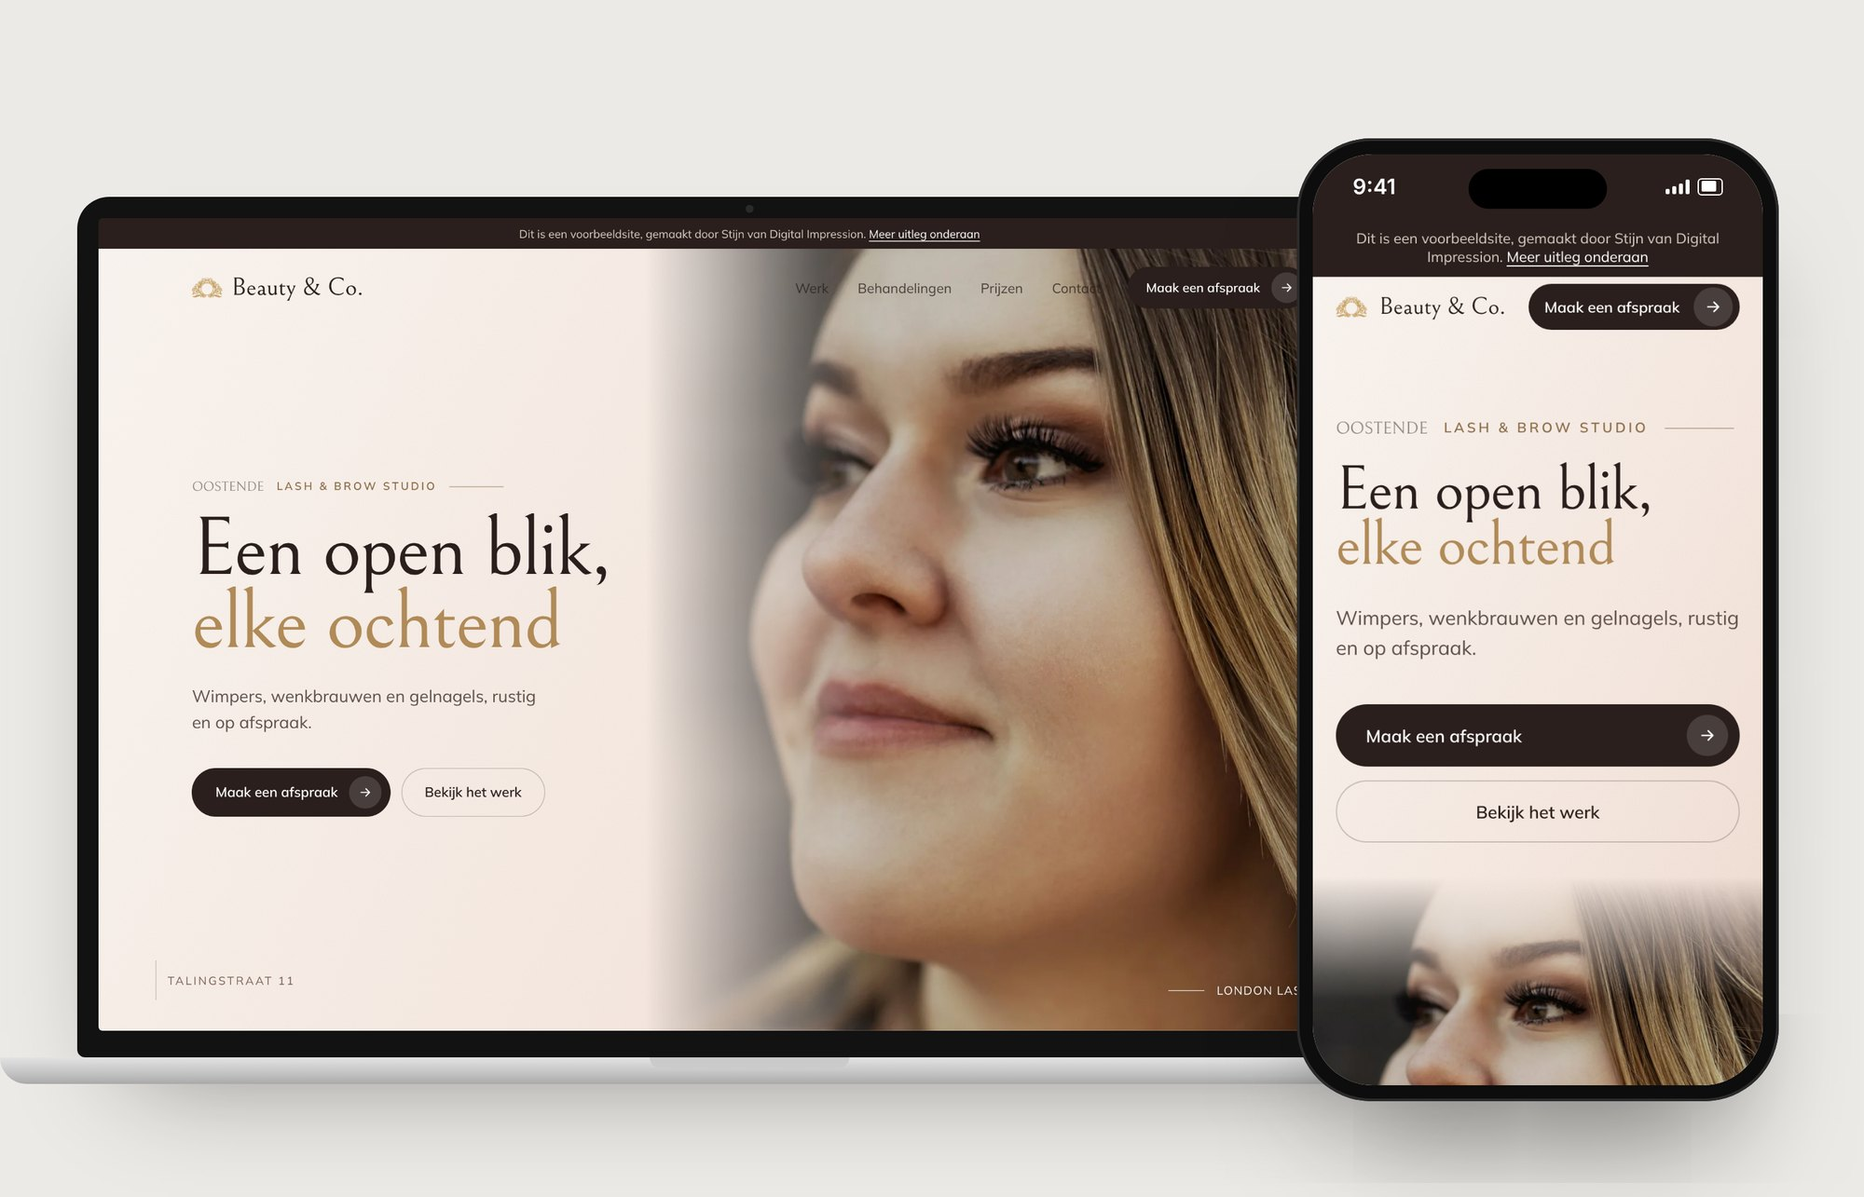
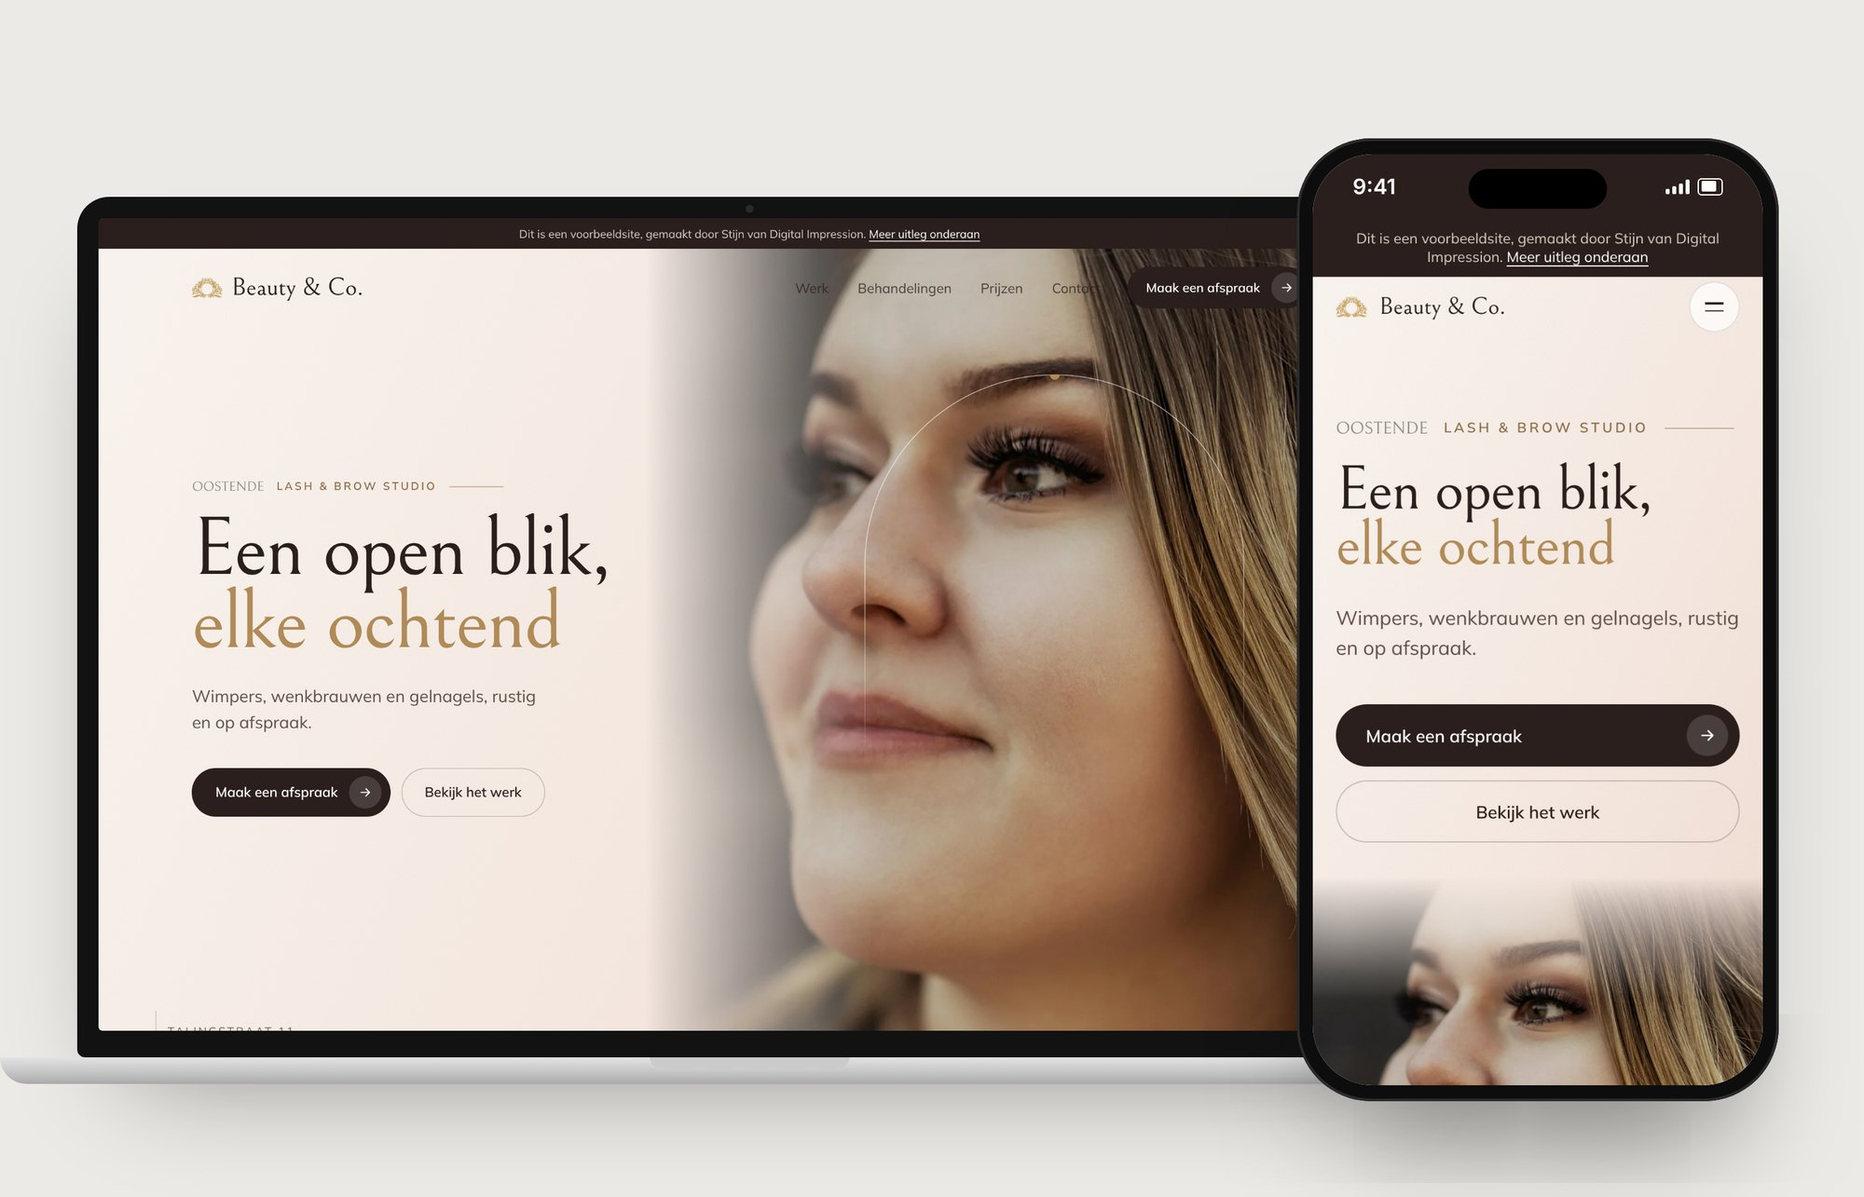
Herbouw demo's: beautyenco-v4
Claude-Session: https://claude.ai/code/session_01TdZ34TXFArNX3EdJKFWCx7

diff --git a/voorbeeld/beautyenco-v4/index.html b/voorbeeld/beautyenco-v4/index.html
@@ -187,7 +187,7 @@ html,body{overflow-x:clip}
 .prices .cols{display:grid;grid-template-columns:repeat(3,1fr);gap:0;border-top:1px solid var(--line)}
 .pl{padding:30px 30px 10px 0}
 .pl+.pl{padding-left:30px;border-left:1px solid var(--line)}
-.pl h3{font-size:32px;margin-bottom:12px;display:flex;align-items:baseline;justify-content:space-between}
+.pl h3{font-size:32px;margin-bottom:12px;display:flex;align-items:center;gap:14px}.pl h3 small{margin-left:auto}
 .pl h3 small{font:600 12px/1 var(--fb);letter-spacing:.16em;color:var(--acc)}
 .pl div{display:flex;justify-content:space-between;align-items:baseline;gap:10px;padding:11px 0;font-size:15px}
 .pl div span{flex:1;display:flex;align-items:baseline;gap:10px}
@@ -240,6 +240,73 @@ html,body{overflow-x:clip}
  .svc{gap:10px}.sv h3{font-size:24px}.sv .tx{left:14px;right:14px;bottom:14px}.sv .pr{font-size:12px;padding:6px 10px}
  .sl-img{height:440px}
 }
+
+/* v4b: levendiger, aansluitend */
+:root{--rose:#EBD3C8;--rose2:#F4E4DC}
+.flow{position:relative;z-index:2;border-radius:clamp(28px,4vw,56px) clamp(28px,4vw,56px) 0 0;margin-top:calc(clamp(28px,4vw,56px) * -1)}
+.hero{padding-bottom:clamp(28px,4vw,56px)}
+.h-arch{position:absolute;right:12%;top:15%;width:min(30vw,420px);aspect-ratio:3/4.2;border:1px solid rgba(255,255,255,.6);border-bottom:0;border-radius:999px 999px 0 0;pointer-events:none;z-index:1;-webkit-mask-image:linear-gradient(180deg,#000 35%,transparent 75%);mask-image:linear-gradient(180deg,#000 35%,transparent 75%)}
+.h-arch::after{content:"";position:absolute;left:50%;top:-6px;width:11px;height:11px;margin-left:-5.5px;border-radius:50%;background:var(--acc);box-shadow:0 0 0 5px rgba(176,138,87,.18)}
+.h-txt h1 .acc{position:relative}
+.werk{background:var(--bg)}
+.strip-bar{margin:22px var(--pad) 0;max-width:1280px;height:2px;background:var(--line);border-radius:2px;overflow:hidden}
+@media (min-width:1400px){.strip-bar{margin-inline:auto;width:calc(1280px - var(--pad)*2)}}
+.strip-bar i{display:block;height:100%;width:30%;background:var(--acc);border-radius:2px;transform-origin:left;transition:transform .2s linear}
+.tr-bg{background:var(--rose2)}
+.sv{overflow:visible}
+.sv .ar{position:absolute;inset:0;border-radius:inherit;overflow:hidden;z-index:0}
+.sv .ar img{position:absolute;inset:0;width:100%;height:100%;object-fit:cover;transition:transform 1.4s var(--ease)}
+.sv .ar::after{content:"";position:absolute;inset:0;background:linear-gradient(180deg,rgba(42,31,28,0) 45%,rgba(42,31,28,.82))}
+.sv::before{content:"";position:absolute;inset:-9px;border:1px solid rgba(176,138,87,.45);border-radius:inherit;opacity:0;transform:scale(.97);transition:opacity .5s,transform .7s var(--ease)}
+.sv:hover::before{opacity:1;transform:none}
+.sv::after{display:none}
+.sv .tx{z-index:1}
+.sv:hover .ar img{transform:scale(1.06)}
+.sv .pr i{width:22px;height:22px;border-radius:50%;background:#fff;color:var(--ink);display:inline-grid;place-items:center;transition:transform .5s var(--ease)}
+.sv:hover .pr i{transform:rotate(-45deg)}
+.sv .pr i svg{width:12px;height:12px}
+.steps3{display:grid;grid-template-columns:repeat(3,1fr);gap:16px;margin-top:clamp(40px,5vw,64px)}
+.s3{display:flex;gap:16px;align-items:center;padding:14px;border-radius:22px;background:rgba(255,255,255,.08);backdrop-filter:blur(10px);-webkit-backdrop-filter:blur(10px);box-shadow:inset 0 0 0 1px rgba(255,255,255,.14)}
+.s3 img{width:84px;height:84px;border-radius:16px;object-fit:cover;flex:none}
+.s3 .n{font:400 13px/1 var(--fb);letter-spacing:.18em;color:#E3C49A}
+.s3 b{display:block;font:400 23px/1.15 var(--fh);color:#fff;margin:6px 0 4px}
+.s3 small{color:rgba(255,255,255,.7);font-size:13.5px;line-height:1.4;display:block}
+.prices{background:var(--bg)}
+.pl h3 .ico{width:42px;height:42px;border-radius:50%;background:var(--rose2);display:grid;place-items:center;color:var(--acc2)}
+.pl h3 .ico svg{width:20px;height:20px}
+.salon{background:var(--rose2)}
+.sl-img .a{box-shadow:0 40px 80px -50px rgba(42,31,28,.6)}
+.sl-img::before{content:"";position:absolute;left:-18px;top:30px;width:120px;height:120px;border-radius:50%;background:var(--rose);z-index:0}
+.sl-img .a{z-index:1}.sl-img .b{z-index:2;border-color:var(--rose2)}
+.book{background:var(--bg)}
+.bk{box-shadow:0 50px 100px -60px rgba(42,31,28,.55)}
+.burger{display:none;width:44px;height:44px;border-radius:50%;border:1px solid var(--line);background:rgba(255,255,255,.7);align-items:center;justify-content:center;flex-direction:column;gap:5px;cursor:pointer}
+.burger i{display:block;width:16px;height:1.5px;background:var(--ink);transition:transform .4s var(--ease),opacity .3s}
+.menu-open .burger i:first-child{transform:translateY(3.25px) rotate(45deg)}
+.menu-open .burger i:last-child{transform:translateY(-3.25px) rotate(-45deg)}
+.sheet{position:fixed;inset:0;z-index:45;background:var(--bg);padding:150px var(--pad) 40px;display:flex;flex-direction:column;gap:6px;opacity:0;visibility:hidden;transform:translateY(-12px);transition:opacity .4s,transform .5s var(--ease),visibility .4s}
+.menu-open .sheet{opacity:1;visibility:visible;transform:none}
+.sheet a.l{font:400 42px/1.25 var(--fh);color:var(--ink);padding:6px 0;border-bottom:1px solid var(--line)}
+.sheet .btn{margin-top:26px;align-self:flex-start}
+.sheet p{margin-top:auto;color:var(--mute);font-size:14px}
+.ftr{background:var(--dark);color:#F1E6DF;border-top:0;padding-top:clamp(60px,7vw,100px)}
+.ftr .ft{display:grid;grid-template-columns:1.3fr 1fr 1fr 1fr;gap:30px;align-items:start;padding-bottom:36px;border-bottom:1px solid rgba(255,255,255,.12)}
+.ftr .ft .brand{color:#fff;font-size:34px}
+.ftr .ft .brand img{height:26px}
+.ftr .ft p.t{color:rgba(241,230,223,.6);font-size:14.5px;margin-top:16px;max-width:22em}
+.ftr h4{font:600 12px/1 var(--fb);letter-spacing:.16em;text-transform:uppercase;color:#D8B98A;margin-bottom:14px}
+.ftr .col a,.ftr .col span{display:block;color:#F1E6DF;font-size:15px;margin-bottom:8px;opacity:.85}
+.ftr .col a:hover{opacity:1}
+.ftr .strip2{display:grid;grid-template-columns:repeat(6,1fr);gap:8px;margin:30px 0}
+.ftr .strip2 img{width:100%;aspect-ratio:1;object-fit:cover;border-radius:14px}
+.ftr .fb{color:rgba(241,230,223,.5);border-top:0;padding-top:0}
+@media (max-width:1100px){.steps3{grid-template-columns:1fr}}
+@media (max-width:1100px){.nav ul{display:none}.burger{display:inline-flex;margin-left:auto}.nav .in>.btn{margin-left:auto}.nav .in>.btn+.burger{margin-left:0}.h-arch{display:none}}
+@media (max-width:640px){.nav .in>.btn{display:none}.burger{margin-left:auto!important}}
+@media (max-width:900px){.ftr .ft{grid-template-columns:1fr 1fr}}
+@media (max-width:640px){.ftr .ft{grid-template-columns:1fr}.ftr .strip2{grid-template-columns:repeat(3,1fr)}.sv::before{inset:-6px}.s3 img{width:70px;height:70px}}
+@media (min-width:1101px){.sheet{display:none}}
+@media (max-width:900px){.hero>.wrap{width:100%}.svc .sv{aspect-ratio:3/3.7}}
 </style>
 </head>
 <body>
@@ -255,13 +322,16 @@ html,body{overflow-x:clip}
    <li><a href="#afspraak">Contact</a></li>
   </ul>
   <a class="btn k" href="#afspraak">Maak een afspraak <i><svg viewBox="0 0 24 24" fill="none" stroke="currentColor" stroke-width="2" stroke-linecap="round"><path d="M5 12h14M13 6l6 6-6 6"/></svg></i></a>
+  <button class="burger" type="button" aria-label="Menu" aria-expanded="false"><i></i><i></i></button>
  </div>
 </header>
+<div class="sheet" aria-hidden="true"><a class="l" href="#werk">Werk</a><a class="l" href="#behandelingen">Behandelingen</a><a class="l" href="#prijzen">Prijzen</a><a class="l" href="#afspraak">Contact</a><a class="btn k" href="#afspraak">Maak een afspraak <i><svg viewBox="0 0 24 24" fill="none" stroke="currentColor" stroke-width="2" stroke-linecap="round"><path d="M5 12h14M13 6l6 6-6 6"/></svg></i></a><p>Talingstraat 11, Oostende · 0494 43 06 27</p></div>
 
 <main id="top">
 <section class="hero">
  <div class="ph"><img src="img/model.webp" alt="Vrouw met lange, natuurlijke wimpers" width="1300" height="1949" fetchpriority="high" data-speed=".05"></div>
  <div class="grain"></div>
+ <div class="h-arch" data-speed=".03"></div>
  <div class="wrap grid">
   <div class="h-txt">
    <p class="idx r"><span>Oostende</span>Lash &amp; brow studio</p>
@@ -290,46 +360,47 @@ html,body{overflow-x:clip}
   <figure class="rm" style="--d:5;--rad:22px"><img src="img/lashlift.webp" alt="Lashlift" loading="lazy"><figcaption><b>Lashlift</b><span>Wimpers</span></figcaption></figure>
   <figure class="rm" style="--d:6;--rad:22px"><img src="img/rood.webp" alt="Rode gelnagels" loading="lazy"><figcaption><b>Kleur</b><span>Gelnagels</span></figcaption></figure>
  </div>
+ <div class="strip-bar"><i></i></div>
 </section>
 
-<section class="sec" id="behandelingen" style="padding-top:clamp(50px,6vw,90px)">
+<section class="sec flow tr-bg" id="behandelingen">
  <div class="wrap">
   <div class="sh"><div><p class="idx r"><span>02</span>Behandelingen</p><h2 class="rl">Vier dingen, heel goed gedaan</h2></div></div>
   <div class="svc">
-   <a class="sv r" href="#prijzen"><img src="img/volume.webp" alt="" loading="lazy"><div class="tx"><span class="n">01</span><h3>Wimpers</h3><span class="pr">vanaf € 65 <svg viewBox="0 0 24 24" fill="none" stroke="currentColor" stroke-width="2" stroke-linecap="round"><path d="M5 12h14M13 6l6 6-6 6"/></svg></span></div></a>
-   <a class="sv r" href="#prijzen" style="--d:2"><img src="img/pb-duo.webp" alt="" loading="lazy"><div class="tx"><span class="n">02</span><h3>Wenkbrauwen</h3><span class="pr">vanaf € 18 <svg viewBox="0 0 24 24" fill="none" stroke="currentColor" stroke-width="2" stroke-linecap="round"><path d="M5 12h14M13 6l6 6-6 6"/></svg></span></div></a>
-   <a class="sv r" href="#prijzen" style="--d:3"><img src="img/pb-na.webp" alt="" loading="lazy"><div class="tx"><span class="n">03</span><h3>Powderbrows</h3><span class="pr">€ 355 <svg viewBox="0 0 24 24" fill="none" stroke="currentColor" stroke-width="2" stroke-linecap="round"><path d="M5 12h14M13 6l6 6-6 6"/></svg></span></div></a>
-   <a class="sv r" href="#prijzen" style="--d:4"><img src="img/nagels.webp" alt="" loading="lazy"><div class="tx"><span class="n">04</span><h3>Gelnagels</h3><span class="pr">vanaf € 55 <svg viewBox="0 0 24 24" fill="none" stroke="currentColor" stroke-width="2" stroke-linecap="round"><path d="M5 12h14M13 6l6 6-6 6"/></svg></span></div></a>
+   <a class="sv r" href="#prijzen"><span class="ar"><img src="img/volume.webp" alt="" loading="lazy"></span><div class="tx"><span class="n">01</span><h3>Wimpers</h3><span class="pr">vanaf € 65 <i><svg viewBox="0 0 24 24" fill="none" stroke="currentColor" stroke-width="2" stroke-linecap="round"><path d="M5 12h14M13 6l6 6-6 6"/></svg></i></span></div></a>
+   <a class="sv r" href="#prijzen" style="--d:2"><span class="ar"><img src="img/pb-duo.webp" alt="" loading="lazy"></span><div class="tx"><span class="n">02</span><h3>Wenkbrauwen</h3><span class="pr">vanaf € 18 <i><svg viewBox="0 0 24 24" fill="none" stroke="currentColor" stroke-width="2" stroke-linecap="round"><path d="M5 12h14M13 6l6 6-6 6"/></svg></i></span></div></a>
+   <a class="sv r" href="#prijzen" style="--d:3"><span class="ar"><img src="img/pb-na.webp" alt="" loading="lazy"></span><div class="tx"><span class="n">03</span><h3>Powderbrows</h3><span class="pr">€ 355 <i><svg viewBox="0 0 24 24" fill="none" stroke="currentColor" stroke-width="2" stroke-linecap="round"><path d="M5 12h14M13 6l6 6-6 6"/></svg></i></span></div></a>
+   <a class="sv r" href="#prijzen" style="--d:4"><span class="ar"><img src="img/nagels.webp" alt="" loading="lazy"></span><div class="tx"><span class="n">04</span><h3>Gelnagels</h3><span class="pr">vanaf € 55 <i><svg viewBox="0 0 24 24" fill="none" stroke="currentColor" stroke-width="2" stroke-linecap="round"><path d="M5 12h14M13 6l6 6-6 6"/></svg></i></span></div></a>
   </div>
  </div>
 </section>
 
-<section class="mood">
+<section class="mood flow">
  <img src="img/rust.webp" alt="Vrouw met de ogen dicht in warm licht" loading="lazy" data-speed=".08">
  <div class="wrap">
-  <p class="idx r"><span>03</span>Veilig voor je eigen wimper</p>
+  <p class="idx r"><span>03</span>Je eerste afspraak</p>
   <h2 class="rl">Ogen dicht, even niets</h2>
-  <p class="l r" style="--d:2">Bij de allergietest kijken we hoeveel gewicht je eigen wimper aankan. Een set die schade doet, plaatsen we niet.</p>
-  <div class="facts">
-   <div class="r"><b>London Lash Pro</b><small>Opgeleid bij Daisy Wolf</small></div>
-   <div class="r" style="--d:2"><b>Allergietest € 35</b><small>Met advies over stijl en gewicht</small></div>
-   <div class="r" style="--d:3"><b>48 uur vooraf</b><small>Altijd een test voor henna</small></div>
+  <p class="l r" style="--d:2">Opgeleid bij Daisy Wolf van London Lash Pro. Bij de test kijken we hoeveel gewicht je eigen wimper aankan. Een set die schade doet, plaatsen we niet.</p>
+  <div class="steps3">
+   <div class="s3 r"><img src="img/oog.webp" alt="" loading="lazy"><div><span class="n">01</span><b>Allergietest</b><small>€ 35, met advies over stijl en gewicht</small></div></div>
+   <div class="s3 r" style="--d:2"><img src="img/volume.webp" alt="" loading="lazy"><div><span class="n">02</span><b>De behandeling</b><small>Rustig liggen, even indommelen mag</small></div></div>
+   <div class="s3 r" style="--d:3"><img src="img/wimpers-zw.webp" alt="" loading="lazy"><div><span class="n">03</span><b>Nazorg</b><small>Reinigingsproducten bij je nieuwe set inbegrepen</small></div></div>
   </div>
  </div>
 </section>
 
-<section class="sec prices" id="prijzen">
+<section class="sec prices flow" id="prijzen">
  <div class="wrap">
   <div class="sh"><div><p class="idx r"><span>04</span>Prijslijst</p><h2 class="rl">Helder vooraf</h2></div><p class="aside r">Bij nieuwe wimpersets zitten de reinigingsproducten (€ 10) inbegrepen.</p></div>
   <div class="cols">
-   <div class="pl r"><h3>Wimpers <small>01</small></h3><div><span>Lashlift met kleuring</span><b>€ 65</b></div><div><span>Nieuwe set one by one</span><b>€ 125</b></div><div><span>Nieuwe set hybride</span><b>€ 135</b></div><div><span>Russian volume glamour</span><b>€ 135</b></div><div><span>Russian mega volume</span><b>€ 145</b></div><div><span>Speedy refill, 45 min</span><b>€ 45</b></div></div>
-   <div class="pl r" style="--d:2"><h3>Wenkbrauwen <small>02</small></h3><div><span>Epilatie</span><b>€ 18</b></div><div><span>Verven</span><b>€ 18</b></div><div><span>Epilatie en verven</span><b>€ 33</b></div><div><span>Henna brows</span><b>€ 60</b></div><div><span>Powderbrows, met retouche</span><b>€ 355</b></div><div><span>Adviesgesprek PMU</span><b>€ 40</b></div></div>
-   <div class="pl r" style="--d:3"><h3>Gelnagels <small>03</small></h3><div><span>Nieuwe set</span><b>€ 55</b></div><div><span>Met verlenging</span><b>€ 75</b></div><div><span>Bijwerking</span><b>€ 55</b></div><div><span>Bijwerking ander salon</span><b>€ 60</b></div><div><span>Nailart, per nagel</span><b>€ 1,5</b></div></div>
+   <div class="pl r"><h3><span class="ico"><svg viewBox="0 0 24 24" fill="none" stroke="currentColor" stroke-width="1.6" stroke-linecap="round" stroke-linejoin="round"><path d="M3 13c3-4 15-4 18 0M6 12l-1.5-3M10 11l-.5-3.5M14 11l.5-3.5M18 12l1.5-3"/></svg></span>Wimpers <small>01</small></h3><div><span>Lashlift met kleuring</span><b>€ 65</b></div><div><span>Nieuwe set one by one</span><b>€ 125</b></div><div><span>Nieuwe set hybride</span><b>€ 135</b></div><div><span>Russian volume glamour</span><b>€ 135</b></div><div><span>Russian mega volume</span><b>€ 145</b></div><div><span>Speedy refill, 45 min</span><b>€ 45</b></div></div>
+   <div class="pl r" style="--d:2"><h3><span class="ico"><svg viewBox="0 0 24 24" fill="none" stroke="currentColor" stroke-width="1.6" stroke-linecap="round" stroke-linejoin="round"><path d="M3 12c3-5 15-5 18 0"/><path d="M7 9.5c2.5-1.5 7.5-1.5 10 0"/></svg></span>Wenkbrauwen <small>02</small></h3><div><span>Epilatie</span><b>€ 18</b></div><div><span>Verven</span><b>€ 18</b></div><div><span>Epilatie en verven</span><b>€ 33</b></div><div><span>Henna brows</span><b>€ 60</b></div><div><span>Powderbrows, met retouche</span><b>€ 355</b></div><div><span>Adviesgesprek PMU</span><b>€ 40</b></div></div>
+   <div class="pl r" style="--d:3"><h3><span class="ico"><svg viewBox="0 0 24 24" fill="none" stroke="currentColor" stroke-width="1.6" stroke-linecap="round" stroke-linejoin="round"><path d="M9 21V9a3 3 0 0 1 6 0v12M9 13h6"/></svg></span>Gelnagels <small>03</small></h3><div><span>Nieuwe set</span><b>€ 55</b></div><div><span>Met verlenging</span><b>€ 75</b></div><div><span>Bijwerking</span><b>€ 55</b></div><div><span>Bijwerking ander salon</span><b>€ 60</b></div><div><span>Nailart, per nagel</span><b>€ 1,5</b></div></div>
   </div>
  </div>
 </section>
 
-<section class="sec salon" id="salon">
+<section class="sec salon flow" id="salon">
  <div class="wrap sl">
   <div class="sl-img">
    <div class="a rm" style="--rad:240px 240px 24px 24px"><img src="img/salon.webp" alt="De salon in de Talingstraat" loading="lazy"></div>
@@ -346,7 +417,7 @@ html,body{overflow-x:clip}
  </div>
 </section>
 
-<section class="sec book" id="afspraak">
+<section class="sec book flow" id="afspraak">
  <div class="wrap">
   <div class="bk r">
    <div class="bk-l">
@@ -380,15 +451,25 @@ html,body{overflow-x:clip}
 </section>
 </main>
 
-<footer class="ftr">
+<footer class="ftr flow">
  <div class="wrap">
-  <div class="ft"><a class="brand" href="#top"><img src="img/kroon.webp" alt="" loading="lazy">Beauty &amp; Co.</a><nav><a href="#behandelingen">Behandelingen</a><a href="#prijzen">Prijzen</a><a href="https://instagram.com/beauty.co.oostende/" target="_blank" rel="noopener">Instagram</a><a href="https://facebook.com/Beauty-Co-110693121296483" target="_blank" rel="noopener">Facebook</a></nav></div>
-  <div class="fb"><span>Beauty &amp; Co. · Talingstraat 11, 8400 Oostende · 0494 43 06 27</span><span>Voorbeeldsite door Digital Impression</span></div>
+  <div class="ft">
+   <div><a class="brand" href="#top"><img src="img/kroon.webp" alt="" loading="lazy">Beauty &amp; Co.</a><p class="t">Wimpers, wenkbrauwen en gelnagels in de Talingstraat. Rustig, hygiënisch en op afspraak.</p></div>
+   <div class="col"><h4>Salon</h4><span>Talingstraat 11</span><span>8400 Oostende</span><span>Ma tot vr, op afspraak</span></div>
+   <div class="col"><h4>Contact</h4><a href="tel:+32494430627">0494 43 06 27</a><a href="https://beautyenco.simplybook.it/" target="_blank" rel="noopener">Online boeken</a></div>
+   <div class="col"><h4>Volg mee</h4><a href="https://instagram.com/beauty.co.oostende/" target="_blank" rel="noopener">Instagram</a><a href="https://facebook.com/Beauty-Co-110693121296483" target="_blank" rel="noopener">Facebook</a></div>
+  </div>
+  <div class="strip2"><img src="img/volume.webp" alt="" loading="lazy"><img src="img/pb-na.webp" alt="" loading="lazy"><img src="img/french.webp" alt="" loading="lazy"><img src="img/lashlift.webp" alt="" loading="lazy"><img src="img/rood.webp" alt="" loading="lazy"><img src="img/oog.webp" alt="" loading="lazy"></div>
+  <div class="fb"><span>Beauty &amp; Co. · Talingstraat 11, 8400 Oostende</span><span>Voorbeeldsite door Digital Impression</span></div>
  </div>
 </footer>
 <script>
 (function(){var s=document.querySelector('[data-strip]');if(!s)return;document.querySelectorAll('.strip-nav button').forEach(function(b){b.addEventListener('click',function(){s.scrollBy({left:(+b.dataset.dir)*s.clientWidth*.6,behavior:'smooth'})})});
 var d=false,x=0,l=0;s.addEventListener('pointerdown',function(e){if(e.pointerType!=='mouse')return;d=true;x=e.clientX;l=s.scrollLeft;s.style.scrollSnapType='none'});window.addEventListener('pointerup',function(){if(d){d=false;s.style.scrollSnapType=''}});s.addEventListener('pointermove',function(e){if(d){s.scrollLeft=l-(e.clientX-x)}})})();
+</script>
+<script>
+(function(){var s=document.querySelector('[data-strip]'),bar=document.querySelector('.strip-bar i');if(s&&bar){var f=function(){var m=s.scrollWidth-s.clientWidth;var r=s.clientWidth/s.scrollWidth;bar.style.width=(r*100)+'%';bar.style.transform='translateX('+(m>0?(s.scrollLeft/m)*((1-r)/r)*100:0)+'%)'};s.addEventListener('scroll',f,{passive:true});addEventListener('resize',f);f()}
+var b=document.querySelector('.burger'),sh=document.querySelector('.sheet');if(b){var t=function(o){document.documentElement.classList.toggle('menu-open',o);b.setAttribute('aria-expanded',o);sh.setAttribute('aria-hidden',!o)};b.addEventListener('click',function(){t(!document.documentElement.classList.contains('menu-open'))});sh.querySelectorAll('a').forEach(function(a){a.addEventListener('click',function(){t(false)})})}})();
 </script>
 <style>
 html.lenis,html.lenis body{height:auto}.lenis.lenis-smooth{scroll-behavior:auto!important}.lenis.lenis-stopped{overflow:hidden}
